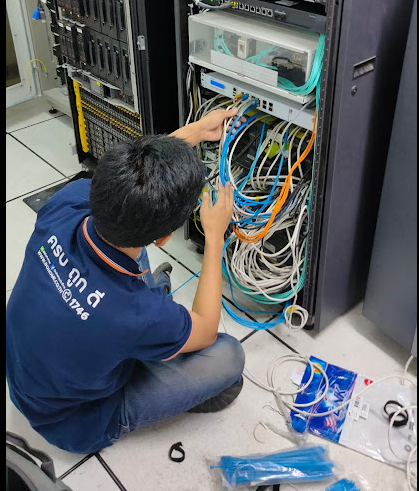
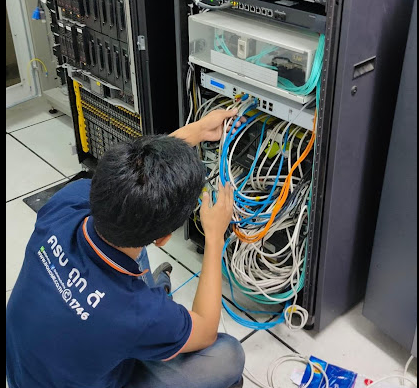
Add mobile/iPad Skills auto-advancing carousel; reorder category tabs
Replace the 2x2 swipe pagination with a single-row, 6-item carousel that
auto-advances every 3s (bounce animation, dots, swipe/tap to jump) on
mobile and iPad; desktop grid unchanged. Move Networking next to
Management in the tab order so mobile tabs wrap to fewer rows.

diff --git a/index.html b/index.html
@@ -144,14 +144,44 @@
     mask-image: linear-gradient(to right, transparent 0, black 6%, black 94%, transparent 100%);
   }
 
-  /* Skills grid: on mobile, swipeable pages of 4 items (scroll-snap); .skill-page
-     becomes `display: contents` at sm+ so it drops out and items join the normal grid. */
-  .no-scrollbar {
-    scrollbar-width: none;
-    -ms-overflow-style: none;
+  /* Skills carousel: mobile/iPad (<1024px) shows one row of 4 items that auto-advances
+     to the next batch every 3s with a bounce-in pop. Desktop (lg+) uses the plain grid
+     in #skills-grid instead — see renderActiveSkillView() in the script below. */
+  .skill-carousel-row {
+    display: grid;
+    grid-template-columns: repeat(6, minmax(0, 1fr));
+    gap: 6px;
   }
-  .no-scrollbar::-webkit-scrollbar {
-    display: none;
+  .skill-carousel-item {
+    animation: skillPop 0.45s cubic-bezier(0.34, 1.56, 0.64, 1) both;
+    animation-delay: calc(var(--d, 0) * 60ms);
+  }
+  @keyframes skillPop {
+    0% { opacity: 0; transform: scale(0.55) translateY(10px); }
+    60% { opacity: 1; transform: scale(1.08) translateY(-2px); }
+    100% { opacity: 1; transform: scale(1) translateY(0); }
+  }
+  .skill-carousel-dots {
+    display: flex;
+    justify-content: center;
+    gap: 8px;
+    margin-top: 20px;
+  }
+  .skill-carousel-dot {
+    width: 8px;
+    height: 8px;
+    border-radius: 9999px;
+    border: none;
+    padding: 0;
+    background-color: #cbd5e1; /* slate-300 */
+    transition: background-color 0.25s ease, transform 0.25s ease;
+  }
+  .dark .skill-carousel-dot {
+    background-color: #334155; /* slate-700 */
+  }
+  .skill-carousel-dot.is-active {
+    background-color: #f97316; /* orange-500 */
+    transform: scale(1.25);
   }
 </style>
 </head>
@@ -438,7 +468,11 @@
 
     <div id="skills-tabs" class="reveal flex flex-wrap justify-center gap-2.5 mb-12"></div>
 
-    <div id="skills-grid" class="no-scrollbar flex overflow-x-auto snap-x snap-mandatory scroll-smooth gap-0 sm:grid sm:grid-cols-3 sm:overflow-visible sm:snap-none md:grid-cols-4 lg:grid-cols-6 sm:gap-x-2 sm:gap-y-8"></div>
+    <!-- Desktop / large tablet (lg+, >=1024px): standard grid, all items at once -->
+    <div id="skills-grid" class="hidden lg:grid lg:grid-cols-6 gap-x-2 gap-y-8"></div>
+
+    <!-- Mobile / iPad (below 1024px): single row of 4, auto-advances every 3s -->
+    <div id="skills-carousel" class="reveal lg:hidden"></div>
   </div>
 </section>
 
@@ -733,20 +767,6 @@
       ] },
     ],
     skills: [
-      { category: 'Networking', items: [
-        { name: 'Switch L3', level: 'Intermediate', icon: './photos/icons/switch-l3.png' },
-        { name: 'Switch L2', level: 'Advanced', icon: './photos/icons/switch-l2.png' },
-        { name: 'Wi-Fi', level: 'Intermediate', icon: './photos/icons/wifi.png' },
-        { name: 'LAN', level: 'Advanced', icon: './photos/icons/lan.png' },
-        { name: 'Fiber Optic', level: 'Intermediate', icon: './photos/icons/fiber.png' },
-        { name: 'IP / VLAN', level: 'Intermediate', icon: './photos/icons/ip.png' },
-        { name: 'Firewall', level: 'Basic', icon: './photos/icons/firewall.png' },
-        { name: 'Huawei', level: 'Intermediate', icon: './photos/icons/huawei.png' },
-        { name: 'Cisco', level: 'Intermediate', icon: './photos/icons/cisco.png' },
-        { name: 'Ruijie', level: 'Intermediate', icon: './photos/icons/ruijie.png' },
-        { name: 'H3C', level: 'Intermediate', icon: './photos/icons/h3c.png' },
-        { name: 'Unifi', level: 'Intermediate', icon: './photos/icons/unifi.png' },
-      ] },
       { category: 'Server & Monitoring Center', items: [
         { name: 'Proxmox', level: 'Intermediate', icon: './photos/icons/proxmox.png' },
         { name: 'VMware', level: 'Intermediate', icon: './photos/icons/vm.png' },
@@ -804,6 +824,20 @@
         { name: 'Stock Card', level: 'Intermediate', short: 'STK' },
         { name: 'Device Equipment', level: 'Intermediate', short: 'EQP' },
         { name: 'Expired Asset', level: 'Intermediate', short: 'EXP' },
+      ] },
+      { category: 'Networking', items: [
+        { name: 'Switch L3', level: 'Intermediate', icon: './photos/icons/switch-l3.png' },
+        { name: 'Switch L2', level: 'Advanced', icon: './photos/icons/switch-l2.png' },
+        { name: 'Wi-Fi', level: 'Intermediate', icon: './photos/icons/wifi.png' },
+        { name: 'LAN', level: 'Advanced', icon: './photos/icons/lan.png' },
+        { name: 'Fiber Optic', level: 'Intermediate', icon: './photos/icons/fiber.png' },
+        { name: 'IP / VLAN', level: 'Intermediate', icon: './photos/icons/ip.png' },
+        { name: 'Firewall', level: 'Basic', icon: './photos/icons/firewall.png' },
+        { name: 'Huawei', level: 'Intermediate', icon: './photos/icons/huawei.png' },
+        { name: 'Cisco', level: 'Intermediate', icon: './photos/icons/cisco.png' },
+        { name: 'Ruijie', level: 'Intermediate', icon: './photos/icons/ruijie.png' },
+        { name: 'H3C', level: 'Intermediate', icon: './photos/icons/h3c.png' },
+        { name: 'Unifi', level: 'Intermediate', icon: './photos/icons/unifi.png' },
       ] },
     ],
     projects: [
@@ -1104,7 +1138,7 @@
       btn.addEventListener('click', () => {
         activeSkillTab = Number(btn.dataset.skillTab);
         renderSkillTabs();
-        renderSkillGrid();
+        renderActiveSkillView();
       });
     });
   }
@@ -1127,33 +1161,133 @@
     return card;
   }
 
-  const SKILLS_PER_MOBILE_PAGE = 4;
-
   function renderSkillGrid() {
     const grid = document.getElementById('skills-grid');
     grid.innerHTML = '';
     const cat = skillCategories[activeSkillTab];
     if (!cat) return;
-    // Group into pages of 4 for the mobile swipe view. `.skill-page` becomes
-    // `display: contents` at sm+, so on larger screens items join the normal
-    // responsive grid as if this wrapper wasn't there.
-    for (let i = 0; i < cat.items.length; i += SKILLS_PER_MOBILE_PAGE) {
-      const page = document.createElement('div');
-      page.className = 'skill-page grid grid-cols-2 gap-x-2 gap-y-8 w-full shrink-0 snap-center sm:contents';
-      cat.items.slice(i, i + SKILLS_PER_MOBILE_PAGE).forEach((skill) => {
-        const card = buildSkillCard(skill);
-        page.appendChild(card);
-        revealObserver.observe(card);
+    cat.items.forEach((skill) => {
+      const card = buildSkillCard(skill);
+      grid.appendChild(card);
+      revealObserver.observe(card);
+    });
+  }
+
+  /* ---------------------- Skills carousel (mobile / iPad, <1024px) ----------------------
+   * Shows one row of 4 items for the active category; every 3s it advances to the next
+   * batch with a bounce-in pop (skillPop keyframes). Tapping a dot or swiping the row
+   * jumps directly and restarts the 3s timer so it doesn't fight the user's input. */
+  const CAROUSEL_PER_PAGE = 6;
+  const CAROUSEL_INTERVAL = 3000;
+  const carouselMQ = window.matchMedia('(max-width: 1023px)');
+  let carouselPage = 0;
+  let carouselTimer = null;
+  let carouselRestartTimer = null;
+
+  function buildSkillMiniCard(skill) {
+    const card = document.createElement('div');
+    card.className = 'skill-carousel-item flex flex-col items-center text-center';
+    const iconHtml = skill.icon
+      ? `<img src="${skill.icon}" alt="${skill.name}" class="w-full h-full object-contain" loading="lazy" draggable="false" />`
+      : `<span class="text-[10px] font-bold tracking-wide text-slate-500 dark:text-slate-400">${skill.short || skill.name.slice(0, 3).toUpperCase()}</span>`;
+    card.innerHTML = `
+      <div class="w-9 h-9 mb-1.5 rounded-full grid place-items-center bg-slate-100 dark:bg-slate-800 overflow-hidden p-1.5">
+        ${iconHtml}
+      </div>
+      <h3 class="text-[10px] font-semibold text-slate-900 dark:text-white leading-tight mb-1 line-clamp-2 min-h-[24px]">${skill.name}</h3>
+      <span class="w-1.5 h-1.5 rounded-full ${SKILL_LEVEL_DOTS[skill.level] || SKILL_LEVEL_DOTS.Basic}"></span>`;
+    return card;
+  }
+
+  function renderSkillCarousel() {
+    const stage = document.getElementById('skills-carousel');
+    const cat = skillCategories[activeSkillTab];
+    if (!stage || !cat || !cat.items.length) return;
+    const totalPages = Math.max(1, Math.ceil(cat.items.length / CAROUSEL_PER_PAGE));
+    carouselPage = ((carouselPage % totalPages) + totalPages) % totalPages;
+    const start = carouselPage * CAROUSEL_PER_PAGE;
+    const pageItems = cat.items.slice(start, start + CAROUSEL_PER_PAGE);
+
+    const row = document.createElement('div');
+    row.className = 'skill-carousel-row';
+    pageItems.forEach((skill, i) => {
+      const card = buildSkillMiniCard(skill);
+      card.style.setProperty('--d', i);
+      row.appendChild(card);
+    });
+
+    stage.innerHTML = '';
+    stage.appendChild(row);
+
+    if (totalPages > 1) {
+      const dots = document.createElement('div');
+      dots.className = 'skill-carousel-dots';
+      dots.innerHTML = Array.from({ length: totalPages }).map((_, i) => `
+        <button type="button" class="skill-carousel-dot ${i === carouselPage ? 'is-active' : ''}" data-carousel-dot="${i}" aria-label="Go to skills page ${i + 1}"></button>`).join('');
+      dots.querySelectorAll('[data-carousel-dot]').forEach((dot) => {
+        dot.addEventListener('click', () => {
+          carouselPage = Number(dot.dataset.carouselDot);
+          renderSkillCarousel();
+          restartCarouselTimer();
+        });
       });
-      grid.appendChild(page);
+      stage.appendChild(dots);
+    }
+
+    // Manual swipe: lets the user look at their own pace between auto-advances.
+    let touchStartX = null;
+    row.addEventListener('touchstart', (e) => {
+      touchStartX = e.touches[0].clientX;
+    }, { passive: true });
+    row.addEventListener('touchend', (e) => {
+      if (touchStartX === null) return;
+      const dx = e.changedTouches[0].clientX - touchStartX;
+      touchStartX = null;
+      if (Math.abs(dx) > 40) {
+        carouselPage += dx < 0 ? 1 : -1;
+        renderSkillCarousel();
+        restartCarouselTimer();
+      }
+    }, { passive: true });
+  }
+
+  function startCarouselTimer() {
+    clearInterval(carouselTimer);
+    carouselTimer = setInterval(() => {
+      carouselPage += 1;
+      renderSkillCarousel();
+    }, CAROUSEL_INTERVAL);
+  }
+
+  function stopCarouselTimer() {
+    clearInterval(carouselTimer);
+    clearTimeout(carouselRestartTimer);
+  }
+
+  function restartCarouselTimer() {
+    clearInterval(carouselTimer);
+    clearTimeout(carouselRestartTimer);
+    carouselRestartTimer = setTimeout(startCarouselTimer, CAROUSEL_INTERVAL);
+  }
+
+  function renderActiveSkillView() {
+    if (carouselMQ.matches) {
+      carouselPage = 0;
+      renderSkillCarousel();
+      startCarouselTimer();
+    } else {
+      stopCarouselTimer();
+      renderSkillGrid();
     }
   }
+
+  carouselMQ.addEventListener('change', renderActiveSkillView);
 
   function renderSkills(categories) {
     skillCategories = categories;
     activeSkillTab = 0;
     renderSkillTabs();
-    renderSkillGrid();
+    renderActiveSkillView();
   }
 
   let allProjects = [];
